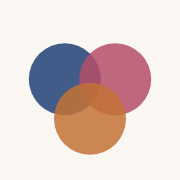
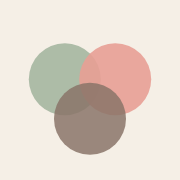
配色を新しいカラーパレット（ピンク・白・ブラウン・緑・薄ピンク）に変更
Claude-Session: https://claude.ai/code/session_01PMwdiWB8v2HZXnpy86hD27

diff --git a/styles.css b/styles.css
@@ -1,7 +1,8 @@
 [hidden]{display:none!important}
 :root{
-    --bg:#FAF7F2; --card:#FFFFFF; --ink:#2A2622; --sub:#7A726A; --line:#ECE6DD;
-    --lon:#2E4A7D; --par:#B44D68; --rom:#C27235; --move:#6E7781; --accent:#8C6A4A;
+    --bg:#f5efe6; --card:#fffaf5; --ink:#4a3d36; --sub:#8a7468; --line:#eadcd3;
+    --pink:#e89e95; --pink-l:#e7c8c2; --pink-xl:#f6e6e1; --brown:#8a7468; --green:#a9b8a3; --green-xl:#e6ebe2; --warn:#b4574b;
+    --lon:#a9b8a3; --par:#e89e95; --rom:#8a7468; --move:#e7c8c2; --accent:#8a7468;
     --radius:14px;
   }
   *{box-sizing:border-box}
@@ -14,56 +15,56 @@
   .hero .route{font-size:13px;color:var(--sub)}
   .hero .route b{font-weight:500}
   .datebar{display:flex;gap:10px;align-items:center;justify-content:center;flex-wrap:wrap;margin-top:14px;font-size:13px}
-  .datebar input{border:1px solid var(--line);background:#fff;border-radius:10px;padding:6px 10px}
-  .countdown{background:#fff;border:1px solid var(--line);border-radius:999px;padding:4px 12px;color:var(--accent);font-weight:500}
+  .datebar input{border:1px solid var(--line);background:var(--card);border-radius:10px;padding:6px 10px}
+  .countdown{background:var(--pink-xl);border:1px solid var(--pink-l);border-radius:999px;padding:4px 12px;color:var(--brown);font-weight:500}
   .status{font-size:12px;color:var(--sub);text-align:center;min-height:18px;margin-top:6px}
-  .status.warn{color:#A1452F}
+  .status.warn{color:var(--warn)}
 
-  nav.tabs{position:sticky;top:0;z-index:5;background:rgba(250,247,242,.94);backdrop-filter:blur(6px);border-bottom:1px solid var(--line);margin:0 -16px;padding:8px 16px}
+  nav.tabs{position:sticky;top:0;z-index:5;background:rgba(245,239,230,.94);backdrop-filter:blur(6px);border-bottom:1px solid var(--line);margin:0 -16px;padding:8px 16px}
   .seg{display:flex;gap:6px;margin-bottom:8px}
-  .seg button{flex:1;border:1px solid var(--line);background:#fff;border-radius:10px;padding:7px 0;font-size:13px;cursor:pointer}
-  .seg button[aria-pressed=true]{background:var(--ink);color:#fff;border-color:var(--ink)}
+  .seg button{flex:1;border:1px solid var(--line);background:var(--card);border-radius:10px;padding:7px 0;font-size:13px;cursor:pointer}
+  .seg button[aria-pressed=true]{background:var(--brown);color:#fff;border-color:var(--brown)}
   .chips{display:flex;gap:6px;overflow-x:auto;scrollbar-width:none;padding-bottom:2px}
   .chips::-webkit-scrollbar{display:none}
-  .chip{flex:0 0 auto;border:none;border-radius:10px;padding:5px 10px;font-size:12px;cursor:pointer;color:#fff;line-height:1.3;text-align:left}
+  .chip{flex:0 0 auto;border:none;border-radius:10px;padding:5px 10px;font-size:12px;cursor:pointer;color:var(--ink);line-height:1.3;text-align:left}
   .chip small{display:block;opacity:.85;font-size:10px}
 
-  .day{background:var(--card);border-radius:var(--radius);margin-top:16px;overflow:hidden;box-shadow:0 1px 0 var(--line),0 6px 18px -12px rgba(60,40,20,.25);scroll-margin-top:110px}
-  .dayhead{padding:14px 16px 12px;color:#fff;display:flex;justify-content:space-between;gap:10px;align-items:flex-end}
+  .day{background:var(--card);border-radius:var(--radius);margin-top:16px;overflow:hidden;box-shadow:0 1px 0 var(--line),0 6px 18px -12px rgba(138,116,104,.35);scroll-margin-top:110px}
+  .dayhead{padding:14px 16px 12px;color:var(--ink);display:flex;justify-content:space-between;gap:10px;align-items:flex-end}
   .dayhead .n{font-family:"Shippori Mincho",serif;font-size:13px;letter-spacing:.12em;opacity:.9}
   .dayhead h2{margin:0;font-family:"Shippori Mincho",serif;font-size:20px;font-weight:700;letter-spacing:.03em}
   .dayhead .date{font-size:13px;opacity:.95;text-align:right;white-space:nowrap}
   .meta{display:flex;flex-wrap:wrap;gap:6px 14px;padding:10px 16px;border-bottom:1px solid var(--line);font-size:12.5px;color:var(--sub)}
   .meals span{display:inline-block;border:1px solid var(--line);border-radius:6px;padding:0 6px;margin-right:4px;font-size:11.5px}
-  .meals span.on{border-color:transparent;background:#F3ECE2;color:var(--accent);font-weight:500}
+  .meals span.on{border-color:transparent;background:var(--pink-xl);color:var(--brown);font-weight:500}
   .stay{background:none;border:none;padding:0;color:var(--sub);cursor:pointer;text-align:left;font-size:12.5px}
-  .stay u{text-decoration-color:#d5ccc0}
-  .daynote{padding:8px 16px;font-size:13px;background:#FCFAF6;border-bottom:1px solid var(--line);white-space:pre-wrap}
+  .stay u{text-decoration-color:var(--pink-l)}
+  .daynote{padding:8px 16px;font-size:13px;background:var(--green-xl);border-bottom:1px solid var(--line);white-space:pre-wrap}
 
   ol.tl{list-style:none;margin:0;padding:6px 0}
   .item{display:grid;grid-template-columns:62px 1fr;gap:10px;padding:10px 16px;cursor:pointer;position:relative}
-  .item:hover{background:#FCFAF6}
+  .item:hover{background:var(--pink-xl)}
   .item .t{font-variant-numeric:tabular-nums;font-size:13px;font-weight:500;padding-top:1px}
   .item .t small{display:block;color:var(--sub);font-weight:400;font-size:11.5px}
   .item .body{border-left:2px solid var(--line);padding-left:12px;min-width:0}
   .item .title{font-weight:500;display:flex;gap:6px;align-items:baseline;flex-wrap:wrap}
   .tag{font-size:10.5px;border-radius:5px;padding:0 6px;font-weight:500;white-space:nowrap}
-  .tag.tour{background:#EFE7DA;color:var(--accent)}
+  .tag.tour{background:var(--pink-l);color:var(--ink)}
   .cat{font-size:10.5px;color:var(--sub)}
-  .item .note{font-size:13px;color:#4c4640;white-space:pre-wrap;overflow-wrap:anywhere}
+  .item .note{font-size:13px;color:var(--ink);opacity:.9;white-space:pre-wrap;overflow-wrap:anywhere}
   .item .links{font-size:12px;margin-top:2px;display:flex;gap:12px;flex-wrap:wrap}
   .item .links a{color:var(--accent)}
-  .item.c-sight .body{border-color:#D9B98F}
-  .item.c-food .body{border-color:#D99A8F}
-  .item.c-move .body{border-color:#A9B3BC}
-  .item.c-shop .body{border-color:#B8A6D3}
-  .item.c-rest .body{border-color:#9FC2AE}
+  .item.c-sight .body{border-color:var(--pink)}
+  .item.c-food .body{border-color:#d9a99a}
+  .item.c-move .body{border-color:#c3b3a9}
+  .item.c-shop .body{border-color:var(--pink-l)}
+  .item.c-rest .body{border-color:var(--green)}
   .untimed{font-size:11px;color:var(--sub);padding:6px 16px 0;letter-spacing:.08em}
   .empty{padding:12px 16px;color:var(--sub);font-size:13px}
-  .add{display:block;width:calc(100% - 32px);margin:4px 16px 14px;border:1px dashed #D8CEC1;background:none;border-radius:10px;padding:8px;color:var(--accent);cursor:pointer;font-size:13px}
-  .add:hover{background:#FCFAF6}
+  .add{display:block;width:calc(100% - 32px);margin:4px 16px 14px;border:1px dashed var(--pink-l);background:none;border-radius:10px;padding:8px;color:var(--accent);cursor:pointer;font-size:13px}
+  .add:hover{background:var(--pink-xl)}
 
-  .info section{background:#fff;border-radius:var(--radius);padding:14px 16px;margin-top:16px;box-shadow:0 1px 0 var(--line)}
+  .info section{background:var(--card);border-radius:var(--radius);padding:14px 16px;margin-top:16px;box-shadow:0 1px 0 var(--line)}
   .info h3{font-family:"Shippori Mincho",serif;margin:0 0 8px;font-size:17px}
   .info ul{margin:0;padding-left:1.2em;font-size:13.5px}
   .info li{margin:3px 0}
@@ -72,9 +73,9 @@
   .info td:last-child{text-align:right;white-space:nowrap}
   .info a{color:var(--accent)}
 
-  .sheet-bg{position:fixed;inset:0;background:rgba(30,20,10,.35);display:none;z-index:20;align-items:flex-end;justify-content:center}
+  .sheet-bg{position:fixed;inset:0;background:rgba(74,61,54,.35);display:none;z-index:20;align-items:flex-end;justify-content:center}
   .sheet-bg.open{display:flex}
-  .sheet{background:#fff;width:100%;max-width:560px;border-radius:18px 18px 0 0;padding:18px 18px 22px;max-height:92vh;overflow:auto}
+  .sheet{background:var(--card);width:100%;max-width:560px;border-radius:18px 18px 0 0;padding:18px 18px 22px;max-height:92vh;overflow:auto}
   @media(min-width:640px){.sheet-bg{align-items:center}.sheet{border-radius:18px}}
   .sheet h3{margin:0 0 12px;font-family:"Shippori Mincho",serif;font-size:18px}
   .row{display:flex;gap:10px}
@@ -84,10 +85,10 @@
   textarea{min-height:76px;resize:vertical}
   .actions{display:flex;gap:8px;margin-top:6px}
   .btn{border:none;border-radius:10px;padding:10px 14px;cursor:pointer;font-weight:500}
-  .btn.primary{background:var(--ink);color:#fff;flex:1}
-  .btn.ghost{background:#F2EDE6}
-  .btn.danger{background:none;color:#A1452F}
-  .confirm{display:none;background:#FBEDEA;border-radius:10px;padding:10px;font-size:13px;margin-top:10px}
+  .btn.primary{background:var(--brown);color:#fff;flex:1}
+  .btn.ghost{background:var(--pink-xl);color:var(--ink)}
+  .btn.danger{background:none;color:var(--warn)}
+  .confirm{display:none;background:var(--pink-xl);border-radius:10px;padding:10px;font-size:13px;margin-top:10px}
   .confirm.show{display:block}
   .ro .add,.ro .datebar input{display:none}
   .ro .item,.ro .stay{cursor:default}
@@ -96,13 +97,25 @@
 
   .topbar{display:flex;justify-content:flex-end;gap:8px;padding-top:10px;font-size:12px}
   .linkbtn{background:none;border:none;color:var(--sub);cursor:pointer;text-decoration:underline;font-size:12px;padding:4px}
-  .login{max-width:380px;margin:40px auto 0;background:#fff;border-radius:var(--radius);padding:22px 20px;box-shadow:0 1px 0 var(--line),0 6px 18px -12px rgba(60,40,20,.25)}
+  .login{max-width:380px;margin:40px auto 0;background:var(--card);border-top:4px solid var(--pink);border-radius:var(--radius);padding:22px 20px;box-shadow:0 1px 0 var(--line),0 6px 18px -12px rgba(138,116,104,.35)}
   .login h2{font-family:"Shippori Mincho",serif;margin:0 0 4px;font-size:20px;text-align:center}
   .login p{font-size:12.5px;color:var(--sub);text-align:center;margin:0 0 16px}
   .login .btn{width:100%;margin-top:4px}
   .login .msg{font-size:12.5px;margin-top:10px;text-align:center;min-height:18px}
-  .login .msg.warn{color:#A1452F}
+  .login .msg.warn{color:var(--warn)}
   .offline .add{display:none}
   .backup{margin-top:10px}
 .offline .datebar input{pointer-events:none;opacity:.6}
 .offline .item,.offline .stay{cursor:default}
+
+.hero .kicker{color:var(--pink);font-weight:500}
+.hero h1{color:var(--ink)}
+.hero h1::after{content:"";display:block;width:42px;height:2px;background:var(--pink);margin:10px auto 0;border-radius:2px}
+.hero .route b{color:var(--brown)}
+.info h3{color:var(--brown)}
+.info h3::before{content:"";display:inline-block;width:6px;height:6px;border-radius:50%;background:var(--pink);margin-right:8px;vertical-align:middle}
+.info a,.item .links a,footer a{color:var(--brown)}
+.login h2{color:var(--ink)}
+.chip{box-shadow:inset 0 0 0 1px rgba(74,61,54,.06)}
+.chip[data-light="0"],.dayhead[data-light="0"]{color:#fff}
+label input:focus,label select:focus,label textarea:focus,.datebar input:focus{outline:2px solid var(--pink-l);outline-offset:0;border-color:var(--pink)}

diff --git a/app.js b/app.js
@@ -2,10 +2,10 @@
   "use strict";
 
   const CITY = {
-    lon: { name: "ロンドン", color: "var(--lon)" },
-    par: { name: "パリ", color: "var(--par)" },
-    rom: { name: "ローマ", color: "var(--rom)" },
-    move: { name: "移動", color: "var(--move)" },
+    lon: { name: "ロンドン", color: "var(--lon)", light: 1 },
+    par: { name: "パリ", color: "var(--par)", light: 1 },
+    rom: { name: "ローマ", color: "var(--rom)", light: 0 },
+    move: { name: "移動", color: "var(--move)", light: 1 },
   };
   const CAT = { sight: "観光", food: "食事", move: "移動", shop: "買い物", rest: "ホテル・休憩", other: "その他" };
   const WD = ["日", "月", "火", "水", "木", "金", "土"];
@@ -91,7 +91,7 @@
       .map((d) => {
         const c = CITY[d.city] || CITY.move;
         const dt = dateFor(d.n);
-        return `<button class="chip" style="background:${c.color}" data-jump="${d.n}">Day ${d.n}<small>${dt ? fmt(dt) : esc(c.name)}</small></button>`;
+        return `<button class="chip" data-light="${c.light}" style="background:${c.color}" data-jump="${d.n}">Day ${d.n}<small>${dt ? fmt(dt) : esc(c.name)}</small></button>`;
       })
       .join("");
   }
@@ -136,7 +136,7 @@
         const meal = (k, l) => `<span class="${m[k] ? "on" : ""}">${l}${m[k] && m[k] !== "付" ? "：" + esc(m[k]) : ""}</span>`;
         const needsHotel = d.stay && d.stay !== "機中泊" && d.stay !== "—";
         return `<article class="day" id="day-${d.n}">
-        <div class="dayhead" style="background:${c.color}">
+        <div class="dayhead" data-light="${c.light}" style="background:${c.color}">
           <div><div class="n">DAY ${d.n}</div><h2>${esc(d.route || c.name)}</h2></div>
           <div class="date">${dt ? fmt(dt) : ""}</div>
         </div>

diff --git a/index.html b/index.html
@@ -3,7 +3,7 @@
 <head>
 <meta charset="utf-8">
 <meta name="viewport" content="width=device-width, initial-scale=1">
-<meta name="theme-color" content="#FAF7F2">
+<meta name="theme-color" content="#f5efe6">
 <meta name="apple-mobile-web-app-capable" content="yes">
 <meta name="apple-mobile-web-app-status-bar-style" content="default">
 <meta name="apple-mobile-web-app-title" content="新婚旅行">
@@ -151,7 +151,7 @@
     </div>
     <div class="actions" id="delRow"><button type="button" class="btn danger" id="delBtn">この予定を削除</button></div>
     <div class="confirm" id="confirmBox">本当に削除しますか？
-      <div class="actions"><button type="button" class="btn ghost" id="noDel">やめる</button><button type="button" class="btn primary" style="background:#A1452F" id="yesDel">削除する</button></div>
+      <div class="actions"><button type="button" class="btn ghost" id="noDel">やめる</button><button type="button" class="btn primary" style="background:var(--warn)" id="yesDel">削除する</button></div>
     </div>
   </form>
 </div>

diff --git a/sw.js b/sw.js
@@ -1,7 +1,7 @@
 // オフラインでも日程を開けるようにするための Service Worker。
 // 画面のファイルを端末に保存しておき、圏外のときはそこから表示する。
 // ファイルを更新したら VERSION を上げる。
-const VERSION = "v1";
+const VERSION = "v2";
 const SHELL = `shell-${VERSION}`;
 const FONTS = "fonts";
 const SHELL_FILES = [
